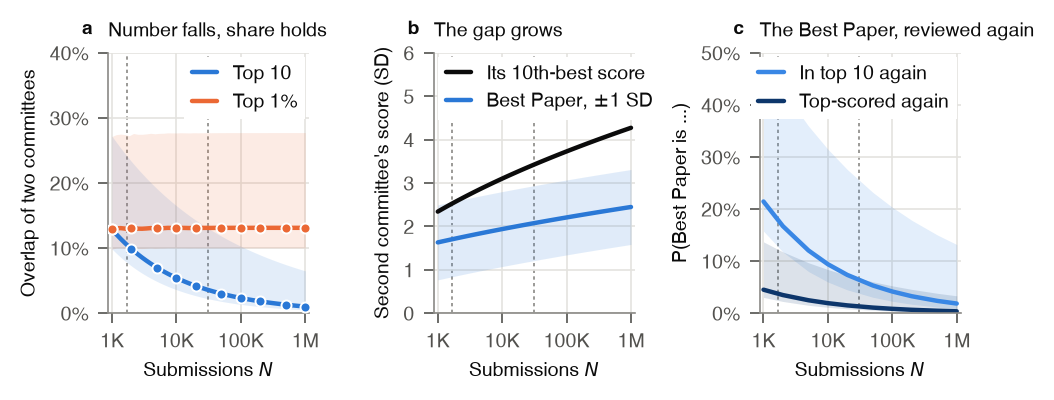
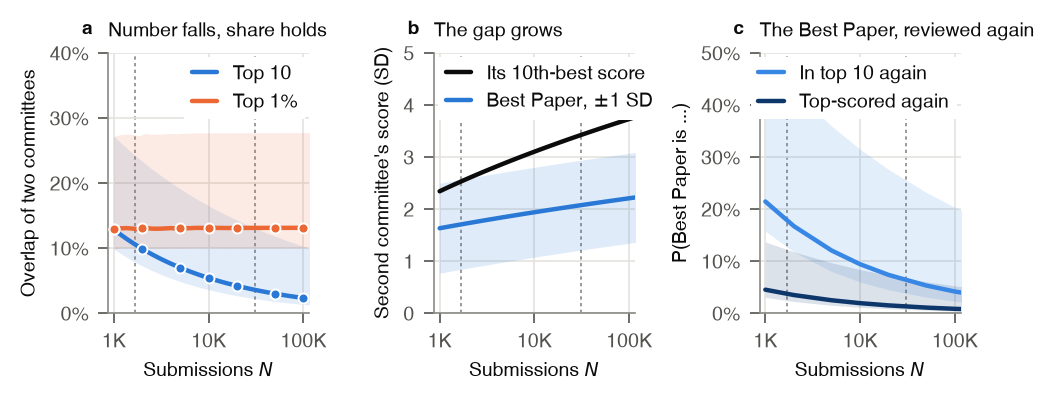
Fig 4: submission axes stop at 100K; text cites 10^5 values
No venue has reached a million submissions, so the N axes end at 100K
(ticks 1K/10K/100K). The text that quoted Fig 4 at 10^6 now quotes 10^5:
top-10 overlap 13% -> 2%, gap 2.21 vs 3.73 SD, top-scored again 4.5% -> 0.9%,
top ten again 21% -> 4%, 9 reviews per paper to hold top-10 overlap.
All values from results/analytic_curves.csv, best_paper.csv and
analytic_R_needed.csv at N = 10^5.

diff --git a/paper/main.tex b/paper/main.tex
@@ -93,7 +93,7 @@ Both jobs now run at a far larger scale (Fig.~\ref{fig:main}a). NeurIPS received
 True quality is never observed, so we ask the question that can be measured. Two field experiments, at NeurIPS 2014 and 2021, sent the same papers to two independent committees, and both times the second committee rejected about half of the papers the first accepted \citep{lawrence2014nips,cortes2021inconsistency,beygelzimer2023neurips}. We ask the same of the award: if a second committee re-reviewed every paper, would it rank the Best Paper first again, in its top ten, within the venue's number of orals, below them but accepted, or rejected? How do these chances change as conferences grow? Awards involve too few papers for the experiments to measure, so we model each review as quality plus noise, calibrate the noise to the two experiments, test the model on held-out ICLR and NeurIPS data, and compute the chances exactly, in the experiments' own units. We find:
 \begin{enumerate}
 \item \textbf{In the calibrated model, a second review would almost always accept a Best Paper but rarely confirm it.} At NeurIPS 2026 size a second committee would rank the model's Best Paper first with probability 1\%, in its top ten with 6\% and within its oral range with 24\%, and it would accept the paper with probability 95\% (Section~\ref{sec:awards}).
-\item \textbf{Growth erodes awards, not acceptance, because awards are a fixed number.} From NeurIPS 2014 to 2026 the chance that the Best Paper is top-scored again fell from 3.7\% to 1.3\%, and at a million submissions it is 0.4\%. Two committees agree on a fixed share of submissions equally well at any size, but the top score goes to an ever luckier paper (Sections~\ref{sec:awards} and~\ref{sec:why}).
+\item \textbf{Growth erodes awards, not acceptance, because awards are a fixed number.} From NeurIPS 2014 to 2026 the chance that the Best Paper is top-scored again fell from 3.7\% to 1.3\%, and at 100,000 submissions it is 0.9\%. Two committees agree on a fixed share of submissions equally well at any size, but the top score goes to an ever luckier paper (Sections~\ref{sec:awards} and~\ref{sec:why}).
 \item \textbf{Whether a second review confirms the award hinges on how far the best papers stand apart, and the data favour the pessimistic case.} Across variants that fit the acceptance data, the chance that the Best Paper is top-scored again ranges from 0.2\% to 89\%. The heavy-tailed variants that make awards reproducible predict 8 to 12 shared NeurIPS 2021 highlights, against the 3 observed (Section~\ref{sec:sure}).
 \item \textbf{Real score scales make a second review harsher.} On a 1--10 scale a second committee rejects the Best Paper 10\% of the time, against 5\% with continuous scores (Section~\ref{sec:sure}).
 \end{enumerate}
@@ -133,9 +133,9 @@ So in the model a Best Paper today is one a second committee would accept but no
 
 Why does growth erode awards but not acceptance? We compare two committees' agreement on a fixed share of submissions with their agreement on a fixed number, and follow the second committee's score for the top-scored paper as $N$ grows (Fig.~\ref{fig:mechanism}).
 
-\paragraph{Two committees agree on a fixed share equally well at every size, but on a fixed number ever less well.} A random paper's two scores have the same joint distribution at every $N$, so two committees' top-$p$ shares overlap by the same fraction, $P_2(z_p,z_p;\rho^2)/p$, at every size: 13\% for the top 1\% at the central reliability (Fig.~\ref{fig:mechanism}a). Acceptance is such a selection: at every size a second committee rejects about half of the accepted papers; only their number grows: in the model, about 215 at NeurIPS 2014 and 4,030 in 2026. A fixed number $K$ is a share $K/N$ that shrinks, so its overlap falls: for the ten top-scored papers, from 13\% at $10^3$ submissions to 1\% at $10^6$.
+\paragraph{Two committees agree on a fixed share equally well at every size, but on a fixed number ever less well.} A random paper's two scores have the same joint distribution at every $N$, so two committees' top-$p$ shares overlap by the same fraction, $P_2(z_p,z_p;\rho^2)/p$, at every size: 13\% for the top 1\% at the central reliability (Fig.~\ref{fig:mechanism}a). Acceptance is such a selection: at every size a second committee rejects about half of the accepted papers; only their number grows: in the model, about 215 at NeurIPS 2014 and 4,030 in 2026. A fixed number $K$ is a share $K/N$ that shrinks, so its overlap falls: for the ten top-scored papers, from 13\% at $10^3$ submissions to 2\% at $10^5$.
 
-\paragraph{The top score goes to ever luckier papers.} In standardised units the best scores of either committee lie near $b_N\approx\sqrt{2\log N}$, but a paper scored $s$ by one committee has expected score $\rho^2 s$ from the other, so the top-scored papers fall short of the other committee's top-ten bar by about $(1-\rho^2)b_N$, a gap that widens with $N$: the optimizer's curse \citep{smith2006optimizer,denrell2012top}. At $N=10^3$ the second committee's expected score for the top-scored paper is 1.63 SD above the mean, against 2.34 SD for its own 10th-best paper; at $10^6$ it is 2.45 SD against 4.28 SD (Fig.~\ref{fig:mechanism}b). As a result the chance that the Best Paper is top-scored again falls from 4.5\% at $10^3$ submissions to 0.4\% at $10^6$, and the chance that it is in the top ten again from 21\% to 2\% (Fig.~\ref{fig:mechanism}c). For large $N$ these chances decay like $N^{-(1-\rho^2)/(1+\rho^2)}$ up to logarithmic factors, with exponent 0.33 at the central level, so no reliability short of perfect gives a floor.
+\paragraph{The top score goes to ever luckier papers.} In standardised units the best scores of either committee lie near $b_N\approx\sqrt{2\log N}$, but a paper scored $s$ by one committee has expected score $\rho^2 s$ from the other, so the top-scored papers fall short of the other committee's top-ten bar by about $(1-\rho^2)b_N$, a gap that widens with $N$: the optimizer's curse \citep{smith2006optimizer,denrell2012top}. At $N=10^3$ the second committee's expected score for the top-scored paper is 1.63 SD above the mean, against 2.34 SD for its own 10th-best paper; at $10^5$ it is 2.21 SD against 3.73 SD (Fig.~\ref{fig:mechanism}b). As a result the chance that the Best Paper is top-scored again falls from 4.5\% at $10^3$ submissions to 0.9\% at $10^5$, and the chance that it is in the top ten again from 21\% to 4\% (Fig.~\ref{fig:mechanism}c). For large $N$ these chances decay like $N^{-(1-\rho^2)/(1+\rho^2)}$ up to logarithmic factors, with exponent 0.33 at the central level, so no reliability short of perfect gives a floor.
 
 A fixed-number highlight therefore loses reproducibility as conferences grow, while a tier that grows with submissions keeps it: in the model, ICLR's oral sets, 1.1\% to 1.9\% of submissions from 2019 to 2026, overlapped by 14\% to 17\% throughout, while NeurIPS's, cut to 0.4\%, fell from 14\% to 9\%.
 
@@ -157,7 +157,7 @@ These are untested predictions of a model that leaves out rebuttal, discussion, 
 \begin{itemize}
 \item \emph{Read a Best Paper as a paper a second committee would accept, not one it would single out.}
 \item \emph{Scale highlight tiers with submissions.} A tier that is a fixed share of submissions keeps its reproducibility at every size; awards, which name one paper, cannot.
-\item \emph{Spend extra review on award finalists.} Holding top-10 overlap level from $10^3$ to $10^6$ submissions takes 12 reviews per paper instead of 3 (more with shared noise); reviewing only the finalists costs far less and breaks the ties at the top of a short scale.
+\item \emph{Spend extra review on award finalists.} Holding top-10 overlap level from $10^3$ to $10^5$ submissions takes 9 reviews per paper instead of 3 (more with shared noise); reviewing only the finalists costs far less and breaks the ties at the top of a short scale.
 \item \emph{Measure awards directly.} Two-committee experiments that duplicate award decisions would measure the tails that acceptance data cannot see.
 \end{itemize}
 

diff --git a/scripts/make_figures.py b/scripts/make_figures.py
@@ -321,7 +321,7 @@ def fig_mechanism():
     (fixed number) against their top-1% sets (fixed share). (b) The second committee's expected
     score for the first committee's top-scored paper falls ever further below the second
     committee's own 10th-best score. (c) The Best Paper's chances under a second review, out to
-    a million submissions."""
+    100K submissions (no venue has reached more)."""
     g = load("sweep_g")
     fig, axes = plt.subplots(1, 3, figsize=(P.TEXTWIDTH_IN, ROW_H), gridspec_kw=dict(wspace=0.62))
 
@@ -349,7 +349,7 @@ def fig_mechanism():
     ax.fill_between(top.N, top.value - sd, top.value + sd, color=P.BLUE[450], alpha=0.14, lw=0)
     ax.plot(top.N, top.value, color=P.BLUE[450], lw=1.6, label="Best Paper, $\\pm$1 SD")
     ax.set_ylabel("Second committee's score (SD)")
-    ax.set_ylim(0, 6)
+    ax.set_ylim(0, 5)
     ax.legend(loc="upper left", handlelength=1.3, borderaxespad=0.2)
     ax.set_title("The gap grows", loc="left")
     P.n_axis(ax)

diff --git a/src/peerreview/plotting.py b/src/peerreview/plotting.py
@@ -26,7 +26,7 @@ SURFACE = "#ffffff"
 
 TEXTWIDTH_IN = 5.5  # \textwidth of the paper (NeurIPS 2026 style)
 FONT_PT = 7  # one size for every text element: ticks, labels, titles, legends, annotations
-N_TICKS = [1e3, 1e4, 1e5, 1e6]
+N_TICKS = [1e3, 1e4, 1e5]  # no venue has reached 1M submissions; axes stop at 100K
 
 
 def setup() -> None:
@@ -80,9 +80,9 @@ def fmt_count(x: float, _pos=None) -> str:
 
 
 def n_axis(ax, label: str = "Submissions $N$") -> None:
-    """Log x-axis over N = 1e3..1e6 with 1K/10K/100K/1M ticks."""
+    """Log x-axis over N = 1e3..1e5 with 1K/10K/100K ticks."""
     ax.set_xscale("log")
-    ax.set_xlim(1e3 / 1.15, 1e6 * 1.15)
+    ax.set_xlim(1e3 / 1.15, 1e5 * 1.15)
     ax.xaxis.set_major_locator(FixedLocator(N_TICKS))
     ax.xaxis.set_major_formatter(FuncFormatter(fmt_count))
     ax.xaxis.set_minor_locator(NullLocator())
